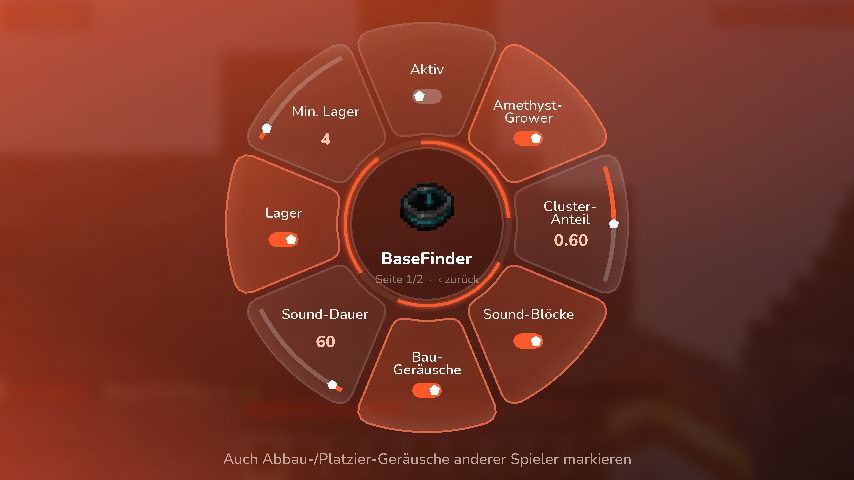
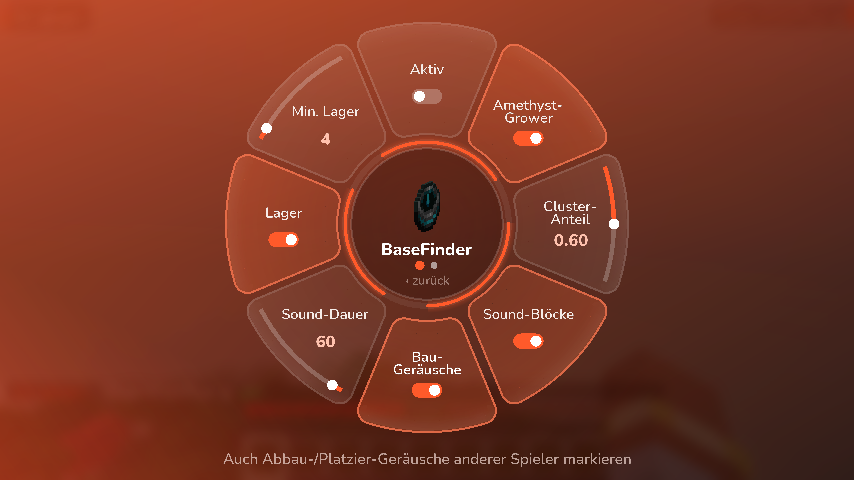
Wheel: keep centre text inside the disc, page dots instead of page text
- Centre texts are scaled to the chord of the disc at their height, so
  they can never cross the disc border
- 'Seite x/y' replaced by page dots, 'zurück' on its own line
- Circles keep a minimum tessellation so small dots stay round

Claude-Session: https://claude.ai/code/session_01MUPP6yAn7mZPsT3PjRrRs4

diff --git a/src/main/java/dev/kraken/gui/RadialScreen.java b/src/main/java/dev/kraken/gui/RadialScreen.java
@@ -217,6 +217,20 @@ public class RadialScreen extends Screen {
         ctx.pose().popMatrix();
     }
 
+    /** Text centred in the disc; scaled down so it never crosses the disc border at its height. */
+    private void centerText(GuiGraphicsExtractor ctx, String str, float y, float desired, int color, boolean bold) {
+        float w = Math.max(1, textWidth(str, bold));
+        float limit = discR - Math.max(3f, R * 0.04f);
+        float s = desired;
+        for (int it = 0; it < 4; it++) {
+            float dy = Math.abs(y - cy) + 4.5f * s; // the text edge furthest from the centre
+            float half = (float) Math.sqrt(Math.max(0f, limit * limit - dy * dy));
+            s = Math.min(desired, 2f * half / w);
+        }
+        if (s < 0.3f) return;
+        text(ctx, str, cx, y, s, color, bold);
+    }
+
     private record Fit(String[] lines, float scale) {}
 
     /** Is the axis-aligned box completely inside the (padded) segment? */
@@ -480,29 +494,33 @@ public class RadialScreen extends Screen {
             if (i == hovered) hint = e.description();
         }
 
-        // ---------------- centre text ----------------
+        // ---------------- centre text (always fitted into the disc) ----------------
         int ca = Shapes.alpha(0xFFFFFFFF, Math.max(0f, Math.min(1f, center)));
+        int backColor = Shapes.lerp(Shapes.alpha(TEXT_DIM, center * 0.7f), Shapes.alpha(VALUE, center), centerHover);
         float nameScale = Math.max(0.85f, Math.min(1.8f, R / 100f));
-        float maxNameW = discR * 1.7f;
         switch (level) {
-            case CATEGORIES -> {
-                String name = minecraft.getUser().getName();
-                float s = Math.min(nameScale * 0.92f, maxNameW / Math.max(1, textWidth(name, false)));
-                text(ctx, name, cx, cy + R * 0.205f, s, ca, false);
-            }
+            case CATEGORIES -> centerText(ctx, minecraft.getUser().getName(), cy + R * 0.205f, nameScale * 0.92f, ca, false);
             case MODULES -> {
-                String name = category.getDisplayName();
-                float s = Math.min(nameScale, maxNameW / Math.max(1, textWidth(name, true)));
-                text(ctx, name, cx, cy + R * 0.175f, s, ca, true);
-                text(ctx, "‹ zurück", cx, cy + R * 0.285f, nameScale * 0.58f, Shapes.lerp(Shapes.alpha(TEXT_DIM, center * 0.7f), Shapes.alpha(VALUE, center), centerHover), false);
+                centerText(ctx, category.getDisplayName(), cy + R * 0.165f, nameScale, ca, true);
+                centerText(ctx, "‹ zurück", cy + R * 0.265f, nameScale * 0.62f, backColor, false);
             }
             case SETTINGS -> {
-                String name = module.getName();
-                float s = Math.min(nameScale * 0.85f, maxNameW / Math.max(1, textWidth(name, true)));
-                text(ctx, name, cx, cy + R * 0.165f, s, ca, true);
+                centerText(ctx, module.getName(), cy + R * 0.12f, nameScale * 0.85f, ca, true);
                 int pages = pageCount(allEntries().size());
-                String sub = pages > 1 ? "Seite " + (page + 1) + "/" + pages + "  ·  ‹ zurück" : "‹ zurück";
-                text(ctx, sub, cx, cy + R * 0.27f, nameScale * 0.58f, Shapes.lerp(Shapes.alpha(TEXT_DIM, center * 0.7f), Shapes.alpha(VALUE, center), centerHover), false);
+                float backY = cy + R * 0.235f;
+                if (pages > 1) {
+                    // page dots instead of "Seite x/y"
+                    Shapes dots = new Shapes();
+                    float dr = Math.max(1.6f, R * 0.017f), sp = R * 0.07f;
+                    float dx0 = cx - (pages - 1) * sp / 2f, dy = cy + R * 0.205f;
+                    for (int p = 0; p < pages; p++) {
+                        int col = p == page ? Shapes.alpha(ACCENT, center) : Shapes.alpha(0x8CFFFFFF, center);
+                        dots.circle(dx0 + p * sp, dy, p == page ? dr * 1.35f : dr, col);
+                    }
+                    dots.submit(ctx);
+                    backY = cy + R * 0.275f;
+                }
+                centerText(ctx, "‹ zurück", backY, nameScale * 0.62f, backColor, false);
             }
         }
         if (hovered == -2 && level != Level.CATEGORIES) hint = "Zurück";

diff --git a/src/main/java/dev/kraken/gui/Shapes.java b/src/main/java/dev/kraken/gui/Shapes.java
@@ -56,7 +56,7 @@ public final class Shapes {
         float gIn = rIn > 0.5f ? Math.min((gap / 2f) / rIn, (a1 - a0) / 2f) : 0f;
         float gOut = Math.min((gap / 2f) / rOut, (a1 - a0) / 2f);
         float in0 = a0 + gIn, in1 = a1 - gIn, out0 = a0 + gOut, out1 = a1 - gOut;
-        int steps = Math.max(2, (int) Math.ceil((a1 - a0) * rOut / 4f));
+        int steps = Math.max(Math.max(2, (int) Math.ceil((a1 - a0) / (Math.PI * 2 / 40))), (int) Math.ceil((a1 - a0) * rOut / 4f));
         for (int i = 0; i < steps; i++) {
             float t0 = (float) i / steps, t1 = (float) (i + 1) / steps;
             float ai0 = in0 + (in1 - in0) * t0, ai1 = in0 + (in1 - in0) * t1;
